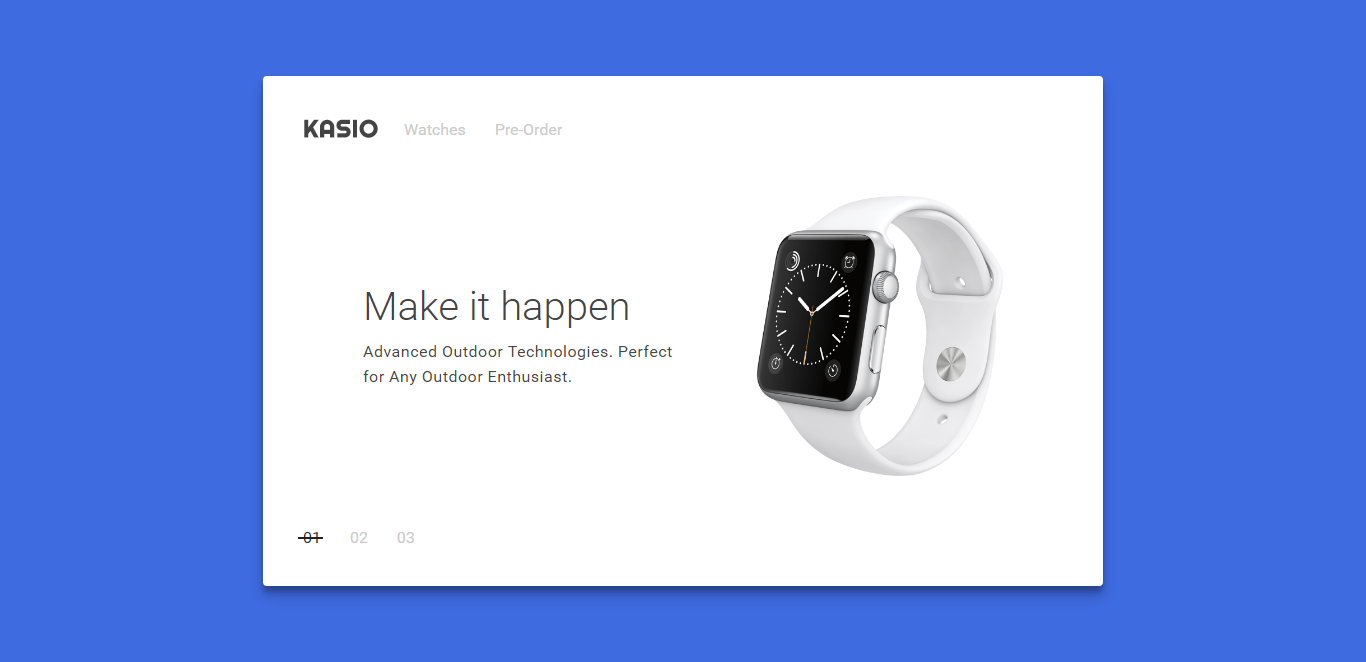
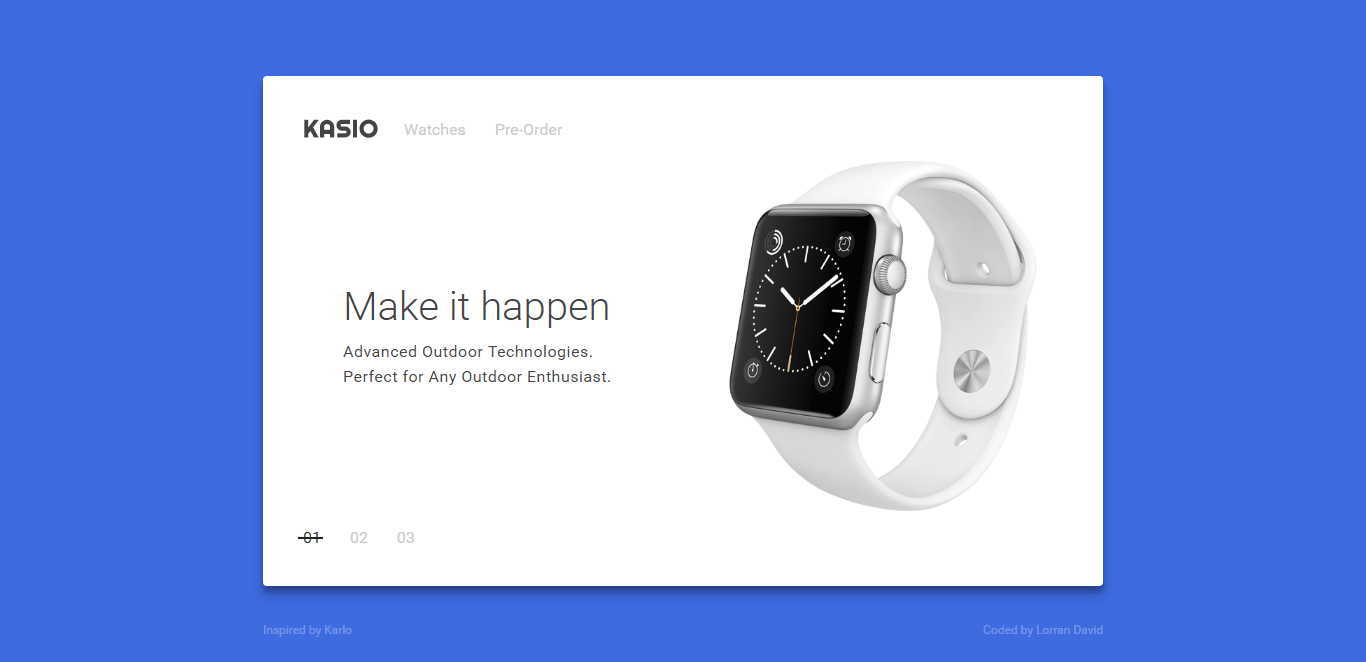
03 Product Showcase

diff --git a/product-showcase/dist/css/app.min.css b/product-showcase/dist/css/app.min.css
@@ -1,1 +1,1 @@
-/*! normalize.css v5.0.0 | MIT License | github.com/necolas/normalize.css */@import url("https://fonts.googleapis.com/css?family=Roboto:300,400,700|Righteous");html{font-family:sans-serif;line-height:1.15;-ms-text-size-adjust:100%;-webkit-text-size-adjust:100%}body{margin:0}article,aside,footer,header,nav,section{display:block}h1{font-size:2em;margin:0.67em 0}figcaption,figure,main{display:block}figure{margin:1em 40px}hr{box-sizing:content-box;height:0;overflow:visible}pre{font-family:monospace, monospace;font-size:1em}a{background-color:transparent;-webkit-text-decoration-skip:objects}a:active,a:hover{outline-width:0}abbr[title]{border-bottom:none;text-decoration:underline;text-decoration:underline dotted}b,strong{font-weight:inherit}b,strong{font-weight:bolder}code,kbd,samp{font-family:monospace, monospace;font-size:1em}dfn{font-style:italic}mark{background-color:#ff0;color:#000}small{font-size:80%}sub,sup{font-size:75%;line-height:0;position:relative;vertical-align:baseline}sub{bottom:-0.25em}sup{top:-0.5em}audio,video{display:inline-block}audio:not([controls]){display:none;height:0}img{border-style:none}svg:not(:root){overflow:hidden}button,input,optgroup,select,textarea{font-family:sans-serif;font-size:100%;line-height:1.15;margin:0}button,input{overflow:visible}button,select{text-transform:none}button,html [type="button"],[type="reset"],[type="submit"]{-webkit-appearance:button}button::-moz-focus-inner,[type="button"]::-moz-focus-inner,[type="reset"]::-moz-focus-inner,[type="submit"]::-moz-focus-inner{border-style:none;padding:0}button:-moz-focusring,[type="button"]:-moz-focusring,[type="reset"]:-moz-focusring,[type="submit"]:-moz-focusring{outline:1px dotted ButtonText}fieldset{border:1px solid #c0c0c0;margin:0 2px;padding:0.35em 0.625em 0.75em}legend{box-sizing:border-box;color:inherit;display:table;max-width:100%;padding:0;white-space:normal}progress{display:inline-block;vertical-align:baseline}textarea{overflow:auto}[type="checkbox"],[type="radio"]{box-sizing:border-box;padding:0}[type="number"]::-webkit-inner-spin-button,[type="number"]::-webkit-outer-spin-button{height:auto}[type="search"]{-webkit-appearance:textfield;outline-offset:-2px}[type="search"]::-webkit-search-cancel-button,[type="search"]::-webkit-search-decoration{-webkit-appearance:none}::-webkit-file-upload-button{-webkit-appearance:button;font:inherit}details,menu{display:block}summary{display:list-item}canvas{display:inline-block}template{display:none}[hidden]{display:none}body{font-family:'Roboto', sans-serif;font-size:16px;color:#444}h1,h2,h3,h4,h5,h6,p{margin:0;padding:0}*,*:before,*:after{box-sizing:border-box}.wrapper{width:100vw;height:100vh;background-color:#3E6BE0;display:-ms-flexbox;display:flex;-ms-flex-pack:center;justify-content:center;-ms-flex-align:center;align-items:center}.modal{width:840px;height:510px;background:#FFF;box-shadow:0 10px 20px rgba(0,0,0,0.19),0 6px 6px rgba(0,0,0,0.23);border-radius:4px;padding:20px}.navtop{height:65px;display:-ms-flexbox;display:flex;-ms-flex-align:center;align-items:center;padding:0 20px}.navtop__brand{font-family:'Righteous', cursive;text-transform:uppercase;letter-spacing:1px;font-size:1.5rem}.navtop__nav{list-style:none;padding-left:0;margin-top:3px;margin-bottom:0}.navtop__item{display:inline-block;margin-left:25px;position:relative}.navtop__link{text-decoration:none;color:#ccc;transition:ease 0.12s}.navtop__link:hover{color:#ddd}.content{display:-ms-flexbox;display:flex;-ms-flex-align:center;align-items:center;position:relative;padding:0 80px;height:350px}.content__body{margin-right:80px}.content__title{font-size:2.5rem;margin-bottom:10px;font-weight:300}.content__p{letter-spacing:0.5px;line-height:25px}.content__product{position:relative;height:80%}.content__product img{height:100%}.content__product--hidden{display:none}.navfooter{display:-ms-flexbox;display:flex;-ms-flex-align:center;align-items:center;padding:15px 20px}.navfooter__list{list-style:none;padding-left:0;margin-top:3px;margin-bottom:0}.navfooter__item{display:inline-block;margin-right:25px;position:relative}.navfooter__link{text-decoration:none;color:#ccc}.navfooter__link--active{color:#222}.navfooter__link--active:before{position:absolute;content:'';top:8px;right:-2px;height:2px;width:25px;background:#222}
+/*! normalize.css v5.0.0 | MIT License | github.com/necolas/normalize.css */@import url("https://fonts.googleapis.com/css?family=Roboto:300,400,700|Righteous");html{font-family:sans-serif;line-height:1.15;-ms-text-size-adjust:100%;-webkit-text-size-adjust:100%}body{margin:0}article,aside,footer,header,nav,section{display:block}h1{font-size:2em;margin:0.67em 0}figcaption,figure,main{display:block}figure{margin:1em 40px}hr{box-sizing:content-box;height:0;overflow:visible}pre{font-family:monospace, monospace;font-size:1em}a{background-color:transparent;-webkit-text-decoration-skip:objects}a:active,a:hover{outline-width:0}abbr[title]{border-bottom:none;text-decoration:underline;text-decoration:underline dotted}b,strong{font-weight:inherit}b,strong{font-weight:bolder}code,kbd,samp{font-family:monospace, monospace;font-size:1em}dfn{font-style:italic}mark{background-color:#ff0;color:#000}small{font-size:80%}sub,sup{font-size:75%;line-height:0;position:relative;vertical-align:baseline}sub{bottom:-0.25em}sup{top:-0.5em}audio,video{display:inline-block}audio:not([controls]){display:none;height:0}img{border-style:none}svg:not(:root){overflow:hidden}button,input,optgroup,select,textarea{font-family:sans-serif;font-size:100%;line-height:1.15;margin:0}button,input{overflow:visible}button,select{text-transform:none}button,html [type="button"],[type="reset"],[type="submit"]{-webkit-appearance:button}button::-moz-focus-inner,[type="button"]::-moz-focus-inner,[type="reset"]::-moz-focus-inner,[type="submit"]::-moz-focus-inner{border-style:none;padding:0}button:-moz-focusring,[type="button"]:-moz-focusring,[type="reset"]:-moz-focusring,[type="submit"]:-moz-focusring{outline:1px dotted ButtonText}fieldset{border:1px solid #c0c0c0;margin:0 2px;padding:0.35em 0.625em 0.75em}legend{box-sizing:border-box;color:inherit;display:table;max-width:100%;padding:0;white-space:normal}progress{display:inline-block;vertical-align:baseline}textarea{overflow:auto}[type="checkbox"],[type="radio"]{box-sizing:border-box;padding:0}[type="number"]::-webkit-inner-spin-button,[type="number"]::-webkit-outer-spin-button{height:auto}[type="search"]{-webkit-appearance:textfield;outline-offset:-2px}[type="search"]::-webkit-search-cancel-button,[type="search"]::-webkit-search-decoration{-webkit-appearance:none}::-webkit-file-upload-button{-webkit-appearance:button;font:inherit}details,menu{display:block}summary{display:list-item}canvas{display:inline-block}template{display:none}[hidden]{display:none}body{font-family:'Roboto', sans-serif;font-size:16px;color:#444}h1,h2,h3,h4,h5,h6,p{margin:0;padding:0}*,*:before,*:after{box-sizing:border-box}.wrapper{width:100vw;height:100vh;background-color:#3E6BE0;display:-ms-flexbox;display:flex;-ms-flex-pack:center;justify-content:center;-ms-flex-align:center;align-items:center}.modal{width:840px;height:510px;background:#FFF;box-shadow:0 10px 20px rgba(0,0,0,0.19),0 6px 6px rgba(0,0,0,0.23);border-radius:4px;padding:20px}.navtop{height:65px;display:-ms-flexbox;display:flex;-ms-flex-align:center;align-items:center;padding:0 20px}.navtop__brand{font-family:'Righteous', cursive;text-transform:uppercase;letter-spacing:1px;font-size:1.5rem}.navtop__nav{list-style:none;padding-left:0;margin-top:3px;margin-bottom:0}.navtop__item{display:inline-block;margin-left:25px;position:relative}.navtop__link{text-decoration:none;color:#ccc;transition:ease 0.12s}.navtop__link:hover{color:#ddd}.content{display:-ms-flexbox;display:flex;-ms-flex-align:center;align-items:center;position:relative;height:350px}.content__body,.content__feature{width:50%;-ms-flex-preferred-size:50%;flex-basis:50%;-ms-flex-negative:0;flex-shrink:0}.content__body{padding-left:60px;padding-right:60px}.content__title{font-size:2.5rem;margin-bottom:10px;font-weight:300}.content__paragraph{letter-spacing:0.5px;line-height:25px}.content__feature{height:100%;position:relative}.content__product{height:100%;width:100%;position:absolute;right:0px;transition-duration:250ms, 250ms, 0ms;transition-property:opacity, right, visibility;transition-delay:250ms, 250ms, 0ms;visibility:visible;opacity:1}.content__product--hidden{right:-20px;transition-delay:0ms, 0ms, 250ms;visibility:hidden;opacity:0}.content__product img{position:absolute;left:50%;transform:translateX(-50%);height:100%}.navfooter{display:-ms-flexbox;display:flex;-ms-flex-align:center;align-items:center;padding:15px 20px}.navfooter__list{list-style:none;padding-left:0;margin-top:3px;margin-bottom:0}.navfooter__item{display:inline-block;margin-right:25px;position:relative}.navfooter__link{text-decoration:none;color:#ccc;cursor:pointer;transition:color 250ms}.navfooter__link:before{position:absolute;content:'';top:8px;right:-2px;height:2px;width:0;background:#222;transition:width 250ms}.navfooter__link--active{color:#222}.navfooter__link--active:before{width:25px}.footer{width:840px;position:fixed;bottom:25px;left:50%;transform:translateX(-50%);display:-ms-flexbox;display:flex;-ms-flex-pack:justify;justify-content:space-between;-ms-flex-align:center;align-items:center}.footer p{color:rgba(255,255,255,0.3);font-size:12px}

diff --git a/product-showcase/index.html b/product-showcase/index.html
@@ -26,34 +26,55 @@
           <div class="content__body">
             <h2 class="content__title">Make it happen</h2>
 
-            <p class="content__p">
+            <p class="content__paragraph">
               Advanced Outdoor Technologies. Perfect for Any Outdoor Enthusiast.
             </p>
           </div>
 
-          <div class="content__product">
-            <img id="content__image" src="http://www.sasktel.com/images/wireless/accessories/apple/apple-watch/apple-watch-sport-42-silver-alum-white-500.png" alt="" />
+          <div class="content__feature">
+            <div class="content__product content__product--1">
+              <img src="http://www.sasktel.com/images/wireless/accessories/apple/apple-watch/apple-watch-sport-42-silver-alum-white-500.png" alt="" />
+            </div>
+
+            <div class="content__product content__product--2 content__product--hidden">
+              <img src="https://www.imore.com/sites/imore.com/files/styles/large/public/topic_images/2015/topic-apple-watch-edition.png" alt="" />
+            </div>
+
+            <div class="content__product content__product--3 content__product--hidden">
+              <img src="http://media.idownloadblog.com/wp-content/uploads/2015/04/Glide-for-Apple-Watch-image-002.png" alt="" />
+            </div>
           </div>
         </div>
 
-        <div class="navfooter">
+        <div class="navfooter" id="navfooter">
           <ul class="navfooter__list">
             <li class="navfooter__item">
-              <a href=""class="navfooter__link navfooter__link--active">01</a>
+              <a class="navfooter__link navfooter__link--active" id="product--1">01</a>
             </li>
 
             <li class="navfooter__item">
-              <a href="" id="teste" class="navfooter__link">02</a>
+              <a class="navfooter__link" id="product--2">02</a>
             </li>
 
             <li class="navfooter__item">
-              <a href="#" class="navfooter__link">03</a>
+              <a class="navfooter__link" id="product--3">03</a>
             </li>
           </ul>
         </div>
       </div>
+
+      <footer class="footer">
+        <p>
+          Inspired by Karlo
+        </p>
+
+        <p>
+          Coded by Lorran David
+        </p>
+      </footer>
     </div>
 
     <script src="https://code.jquery.com/jquery-1.12.4.min.js" integrity="sha256-ZosEbRLbNQzLpnKIkEdrPv7lOy9C27hHQ+Xp8a4MxAQ=" crossorigin="anonymous"></script>
+    <script src="dist/js/app.min.js"></script>
   </body>
 </html>

diff --git a/product-showcase/src/scss/app.scss b/product-showcase/src/scss/app.scss
@@ -72,11 +72,18 @@
   display: flex;
   align-items: center;
   position: relative;
-  padding: 0 80px;
   height: 350px;
 
+  &__body,
+  &__feature{
+    width: 50%;
+    flex-basis: 50%;
+    flex-shrink: 0;
+  }
+
   &__body{
-    margin-right: 80px;
+    padding-left: 60px;
+    padding-right: 60px;
   }
 
   &__title{
@@ -85,21 +92,40 @@
     font-weight: 300;
   }
 
-  &__p{
+  &__paragraph{
     letter-spacing: 0.5px;
     line-height: 25px;
   }
 
-  &__product{
+  &__feature{
+    height: 100%;
     position: relative;
-    height: 80%;
+  }
 
-    img{
-      height: 100%;
-    }
+  &__product{
+    height: 100%;
+    width: 100%;
+    position: absolute;
+    right: 0px;
+    transition-duration: 250ms, 250ms, 0ms;
+    transition-property: opacity, right, visibility;
+    transition-delay: 250ms, 250ms, 0ms;
+    visibility: visible;
+    opacity: 1;
 
     &--hidden{
-      display: none;
+      right: -20px;
+      transition-delay: 0ms, 0ms, 250ms;
+      visibility: hidden;
+      opacity: 0;
+
+    }
+
+    img{
+      position: absolute;
+      left: 50%;
+      transform: translateX(-50%);
+      height: 100%;
     }
   }
 }
@@ -125,19 +151,42 @@
   &__link{
     text-decoration: none;
     color: #ccc;
+    cursor: pointer;
+    transition: color 250ms;
+
+    &:before{
+      position: absolute;
+      content: '';
+      top: 8px;
+      right: -2px;
+      height: 2px;
+      width: 0;
+      background: #222;
+      transition: width 250ms;
+    }
 
     &--active{
       color: #222;
 
       &:before{
-        position: absolute;
-        content: '';
-        top: 8px;
-        right: -2px;
-        height: 2px;
         width: 25px;
-        background: #222;
       }
     }
+  }
+}
+
+.footer{
+  width: 840px;
+  position: fixed;
+  bottom:25px;
+  left: 50%;
+  transform: translateX(-50%);
+  display: flex;
+  justify-content: space-between;
+  align-items: center;
+
+  p{
+    color: rgba(255, 255, 255, 0.3);
+    font-size: 12px;
   }
 }

diff --git a/product-showcase/src/js/app.js b/product-showcase/src/js/app.js
@@ -1,0 +1,12 @@
+$(document).ready(function() {
+  $(".navfooter__link").click(function() {
+    var current = $(this).attr('id');
+
+    if($('.content__'+current).hasClass('content__product--hidden')) {
+      $(".content__product").addClass('content__product--hidden')
+      $('.navfooter__link').removeClass('navfooter__link--active');
+      $('.content__'+current).removeClass('content__product--hidden');
+      $('#'+current).toggleClass('navfooter__link--active');
+    }
+  });
+});

diff --git a/product-showcase/dist/js/app.min.js b/product-showcase/dist/js/app.min.js
@@ -1,0 +1,1 @@
+$(document).ready(function(){$(".navfooter__link").click(function(){var t=$(this).attr("id");$(".content__"+t).hasClass("content__product--hidden")&&($(".content__product").addClass("content__product--hidden"),$(".navfooter__link").removeClass("navfooter__link--active"),$(".content__"+t).removeClass("content__product--hidden"),$("#"+t).toggleClass("navfooter__link--active"))})});

diff --git a/product-showcase/README.md b/product-showcase/README.md
@@ -1,2 +1,5 @@
-#Product Showcase (Work in progress)
+#Product Showcase (animated)
+![alt tag](https://raw.githubusercontent.com/lorrandavid/CSS-Snackables/master/product-showcase/animated.gif)
+
+#Product Showcase
 ![alt tag](https://raw.githubusercontent.com/lorrandavid/CSS-Snackables/master/product-showcase/screenshot.png)
